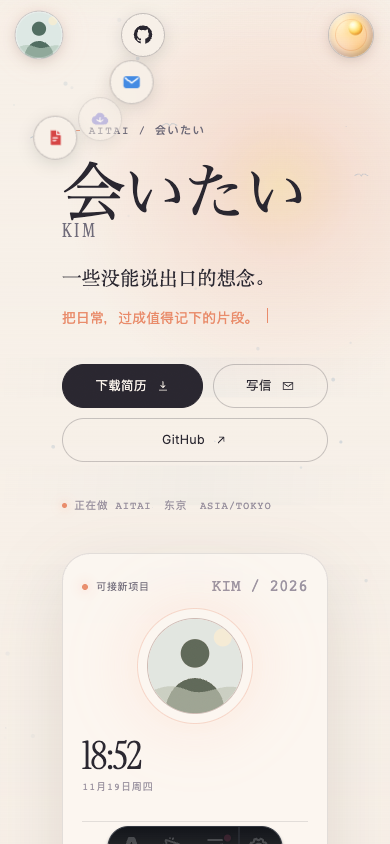
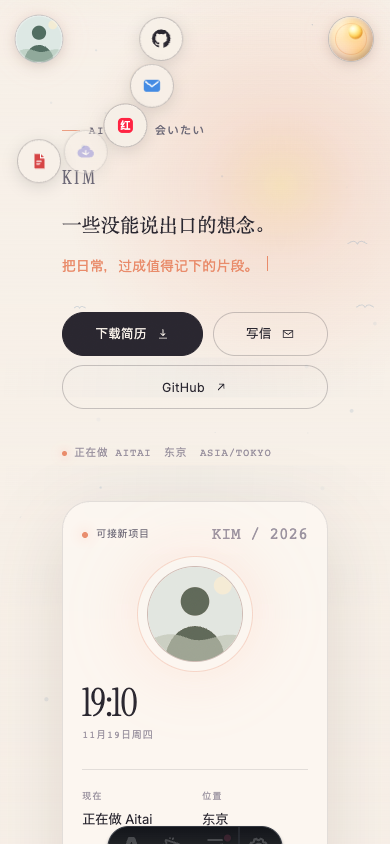
cd

diff --git a/src/styles/global.css b/src/styles/global.css
@@ -12,8 +12,8 @@
 
   --maxw: 1440px;
   --corner-size: 46px;
-  --corner-inset: max(clamp(18px, 3vw, 32px), env(safe-area-inset-left), env(safe-area-inset-right));
-  --corner-top: max(18px, env(safe-area-inset-top));
+  --corner-inset: max(clamp(18px, 3vw, 32px), env(safe-area-inset-top), env(safe-area-inset-left), env(safe-area-inset-right));
+  --corner-top: var(--corner-inset);
   --gutter: calc(var(--corner-inset) + var(--corner-size));
   --header-h: 72px;
   --radius: 18px;
@@ -1447,7 +1447,7 @@ html[data-docked='true'] .header-nav { pointer-events: auto; margin-left: clamp(
 .harbor-card p { margin-top: 0.7rem; max-width: 36ch; color: var(--muted); font-size: 0.86rem; }
 .harbor-actions { display: flex; flex-wrap: wrap; gap: 0.5rem; margin-top: 1.4rem; }
 .social-list { display: flex; flex-wrap: wrap; gap: 0.5rem; margin-top: 1.1rem; }
-.social-list a {
+.social-list .social-link {
   display: inline-flex;
   align-items: center;
   gap: 0.4rem;
@@ -1461,6 +1461,7 @@ html[data-docked='true'] .header-nav { pointer-events: auto; margin-left: clamp(
   transition: color 0.25s, border-color 0.25s, transform 0.25s var(--ease-spring);
 }
 .social-list a:hover { color: var(--text); border-color: var(--accent); transform: translateY(-2px); }
+.social-list [aria-disabled='true'] { opacity: .5; }
 
 .harbor-footer {
   display: flex;
@@ -2070,8 +2071,7 @@ section[id] { scroll-margin-top: calc(var(--header-h) + 16px); }
 @media (max-width: 767px) {
   :root {
     --header-h: 58px;
-    --corner-inset: max(16px, env(safe-area-inset-left), env(safe-area-inset-right));
-    --corner-top: max(12px, env(safe-area-inset-top));
+    --corner-inset: max(16px, env(safe-area-inset-top), env(safe-area-inset-left), env(safe-area-inset-right));
   }
   .header-avatar-slot { width: 32px; height: 32px; }
   .wordmark { font-size: 0.92rem; }

diff --git a/SiteConfig.ts b/SiteConfig.ts
@@ -1,4 +1,4 @@
-import type { AvatarLink, L10n, Lang, SocialLink, ThemeId } from './src/types';
+import type { L10n, Lang, SocialLink, ThemeId } from './src/types';
 
 /**
  * AITAI · 全站自定义中心
@@ -22,6 +22,12 @@ export const siteConfig = {
       { label: 'GitHub', href: 'https://github.com/', icon: 'github' },
       { label: 'Email', href: 'mailto:zes234@proton.me', icon: 'mail' },
       { label: '小红书', href: 'https://www.xiaohongshu.com/', icon: 'xhs' },
+      {
+        label: { zh: '阿里云盘', en: 'Cloud Drive', ja: 'クラウド' },
+        icon: 'cloud',
+        iconSrc: '', // 填入 public/ 图标路径或 HTTPS 图片地址即可替换图标
+        href: '', // 自定义链接待定；留空时显示不可点击的占位图标
+      },
     ] satisfies SocialLink[],
   },
 
@@ -72,17 +78,6 @@ export const siteConfig = {
       { id: 'realms', label: { zh: '三域', en: 'Realms', ja: '三つ領域' } satisfies L10n },
       { id: 'harbor', label: { zh: '归港', en: 'Harbor', ja: '帰港' } satisfies L10n },
     ],
-    /** 头像菜单：GitHub / 邮箱 / 自定义入口 / CV */
-    avatarDock: {
-      customLinks: [
-        {
-          label: { zh: '阿里云盘', en: 'Cloud Drive', ja: 'クラウド' },
-          icon: 'cloud',
-          iconSrc: '', // 填入 public/ 图标路径或 HTTPS 图片地址即可替换图标
-          href: '', // 自定义链接待定；留空时显示不可点击的占位图标
-        },
-      ] satisfies AvatarLink[],
-    },
   },
 
   theme: {

diff --git a/src/types.ts b/src/types.ts
@@ -4,17 +4,11 @@ export type L10n = Record<Lang, string>;
 
 export type ThemeId = 'star' | 'sea' | 'dawn';
 
-export type SocialIcon = 'github' | 'mail' | 'xhs' | 'rss';
+export type SocialIcon = 'github' | 'mail' | 'xhs' | 'rss' | 'cloud' | 'cv';
 
 export type SocialLink = {
-  label: string;
-  href: string;
-  icon: SocialIcon;
-};
-
-export type AvatarLink = {
   label: L10n | string;
-  icon: 'github' | 'mail' | 'cloud' | 'cv';
+  icon: SocialIcon;
   /** A public/ path or HTTPS URL overrides the built-in icon. */
   iconSrc?: string;
   /** An empty URL leaves a disabled placeholder until configured. */

diff --git a/README.md b/README.md
@@ -28,8 +28,8 @@ GitHub Pages 地址为 <https://zes-z.github.io/Aitai/>。`astro.config.mjs` 中
 
 - **四幅首页**：潮汐线 / 漂流物 / 三域 / 归港。
 - **三主题**：星空 / 海月（海上明月，不是水母）/ 朝凪；默认朝凪（`SiteConfig.theme.default` 可改）；长按主题球直接循环切换、全屏换界、localStorage 持久化、无闪首帧。
-- **头像菜单**：左上角点击向右环绕展开 GitHub / Email / 自定义入口 / CV，长按 460ms 回到当前页面顶部；Space / Home 回顶，↓ 打开链接，Escape 关闭。GitHub / 邮件 / CV 图标沿用 funiki 的 SVG 风格。自定义入口在 `SiteConfig.nav.avatarDock.customLinks` 配置 `iconSrc` 与 `href`，空链接显示为不可点击的占位。
-- **对称边界**：两个角落按钮固定为 46px，共享顶部和左右安全区边距。所有页面的内容留白由按钮内侧边界推导；窄屏标题、列表和相册随内容宽度排版。
+- **头像菜单**：左上角点击在右下方 90° 区域内等角度环绕展开 GitHub / Email / 小红书 / 自定义入口 / CV，长按 460ms 回到当前页面顶部；Space / Home 回顶，↓ 打开链接，Escape 关闭。GitHub / 邮件 / CV 图标沿用 funiki 的 SVG 风格。自定义入口在 `SiteConfig.identity.socials` 配置 `iconSrc` 与 `href`，空链接显示为不可点击的占位。
+- **对称边界**：两个角落按钮固定为 46px，顶部与左右边缘使用相等的安全区边距。所有页面的内容留白由按钮内侧边界推导；窄屏标题、列表和相册随内容宽度排版。
 - **三语**：`/[lang]/`，zh / en / ja；一个键 × 三语的 `messages`；`hreflang` 与三语路由。
 - **内容集合**：`src/content/post/<slug>/{zh,en,ja}.md`、`src/content/project/<slug>/{zh,en,ja}.md`，共 21 个 markdown；页面通过 `getCollection` / `render()` 读取，正文由 Astro 渲染。
 - **相册集合**：`src/content/album/photo-video.json` 保留 Zes4U 字段（title / text 为 `[zh,en,ja]` 三语数组），`src/loaders/album.ts` 把每条记录变成独立 entry；相册页与首页影像域都从集合读取。
